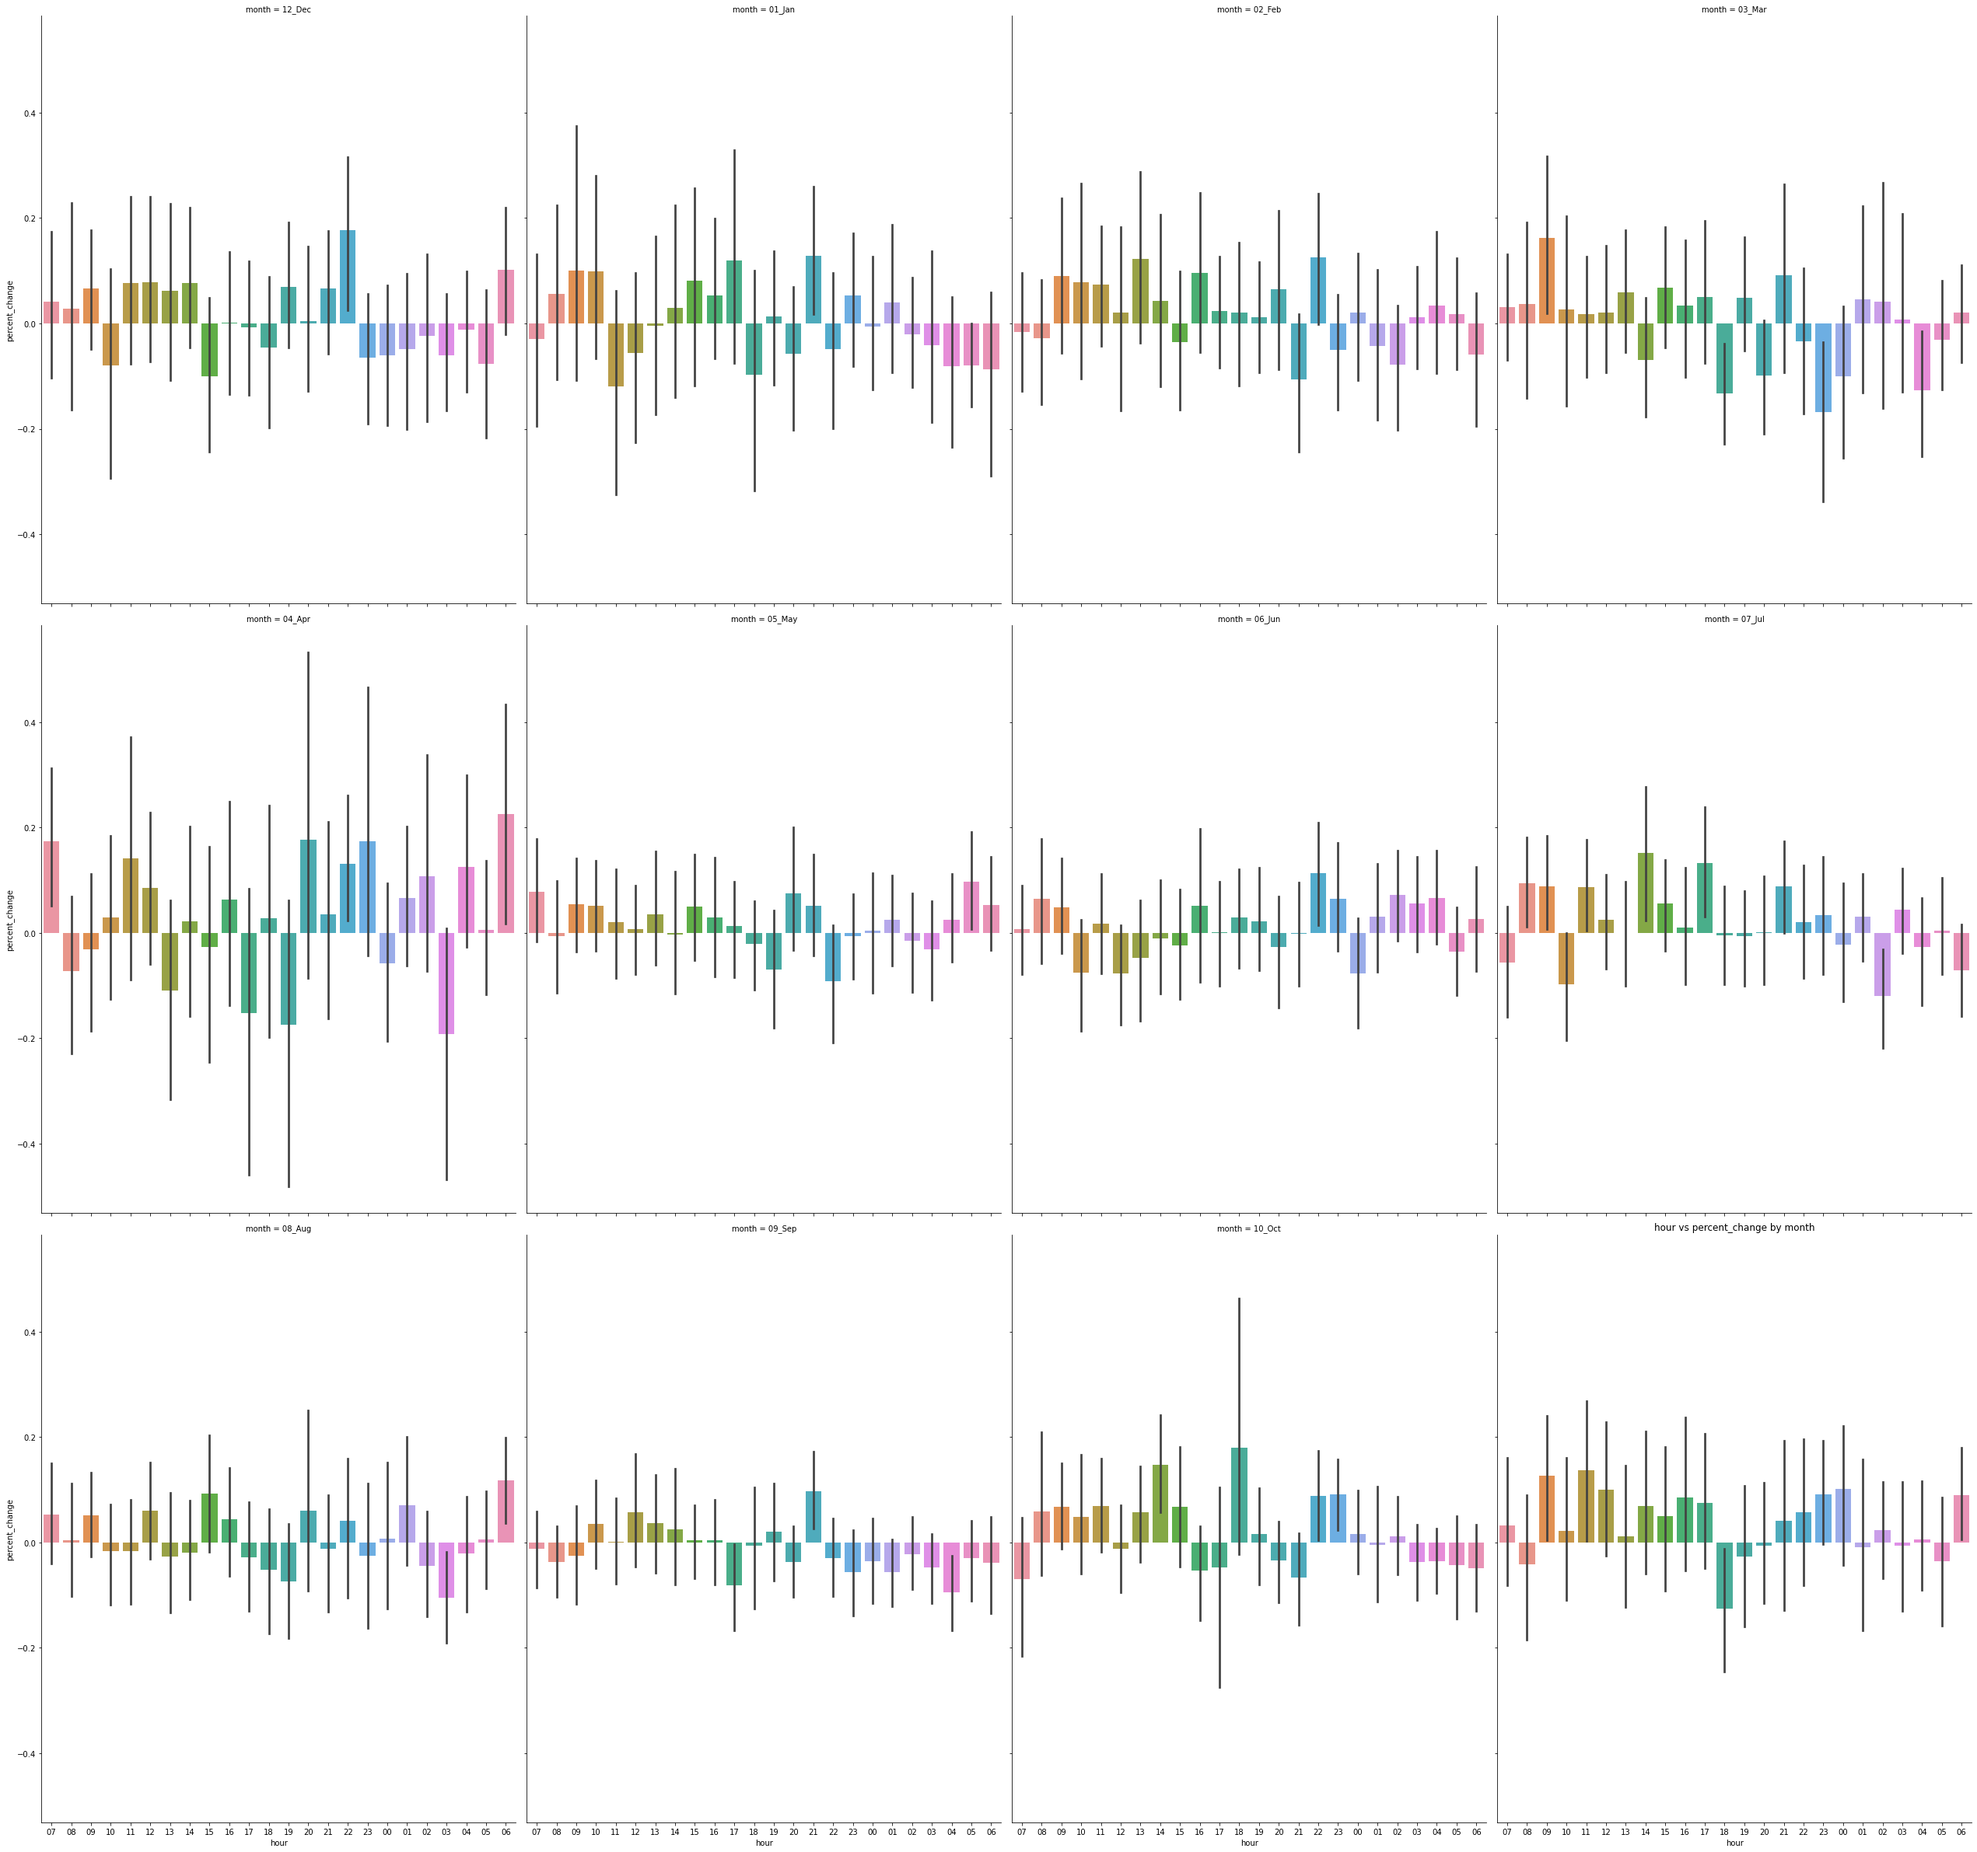
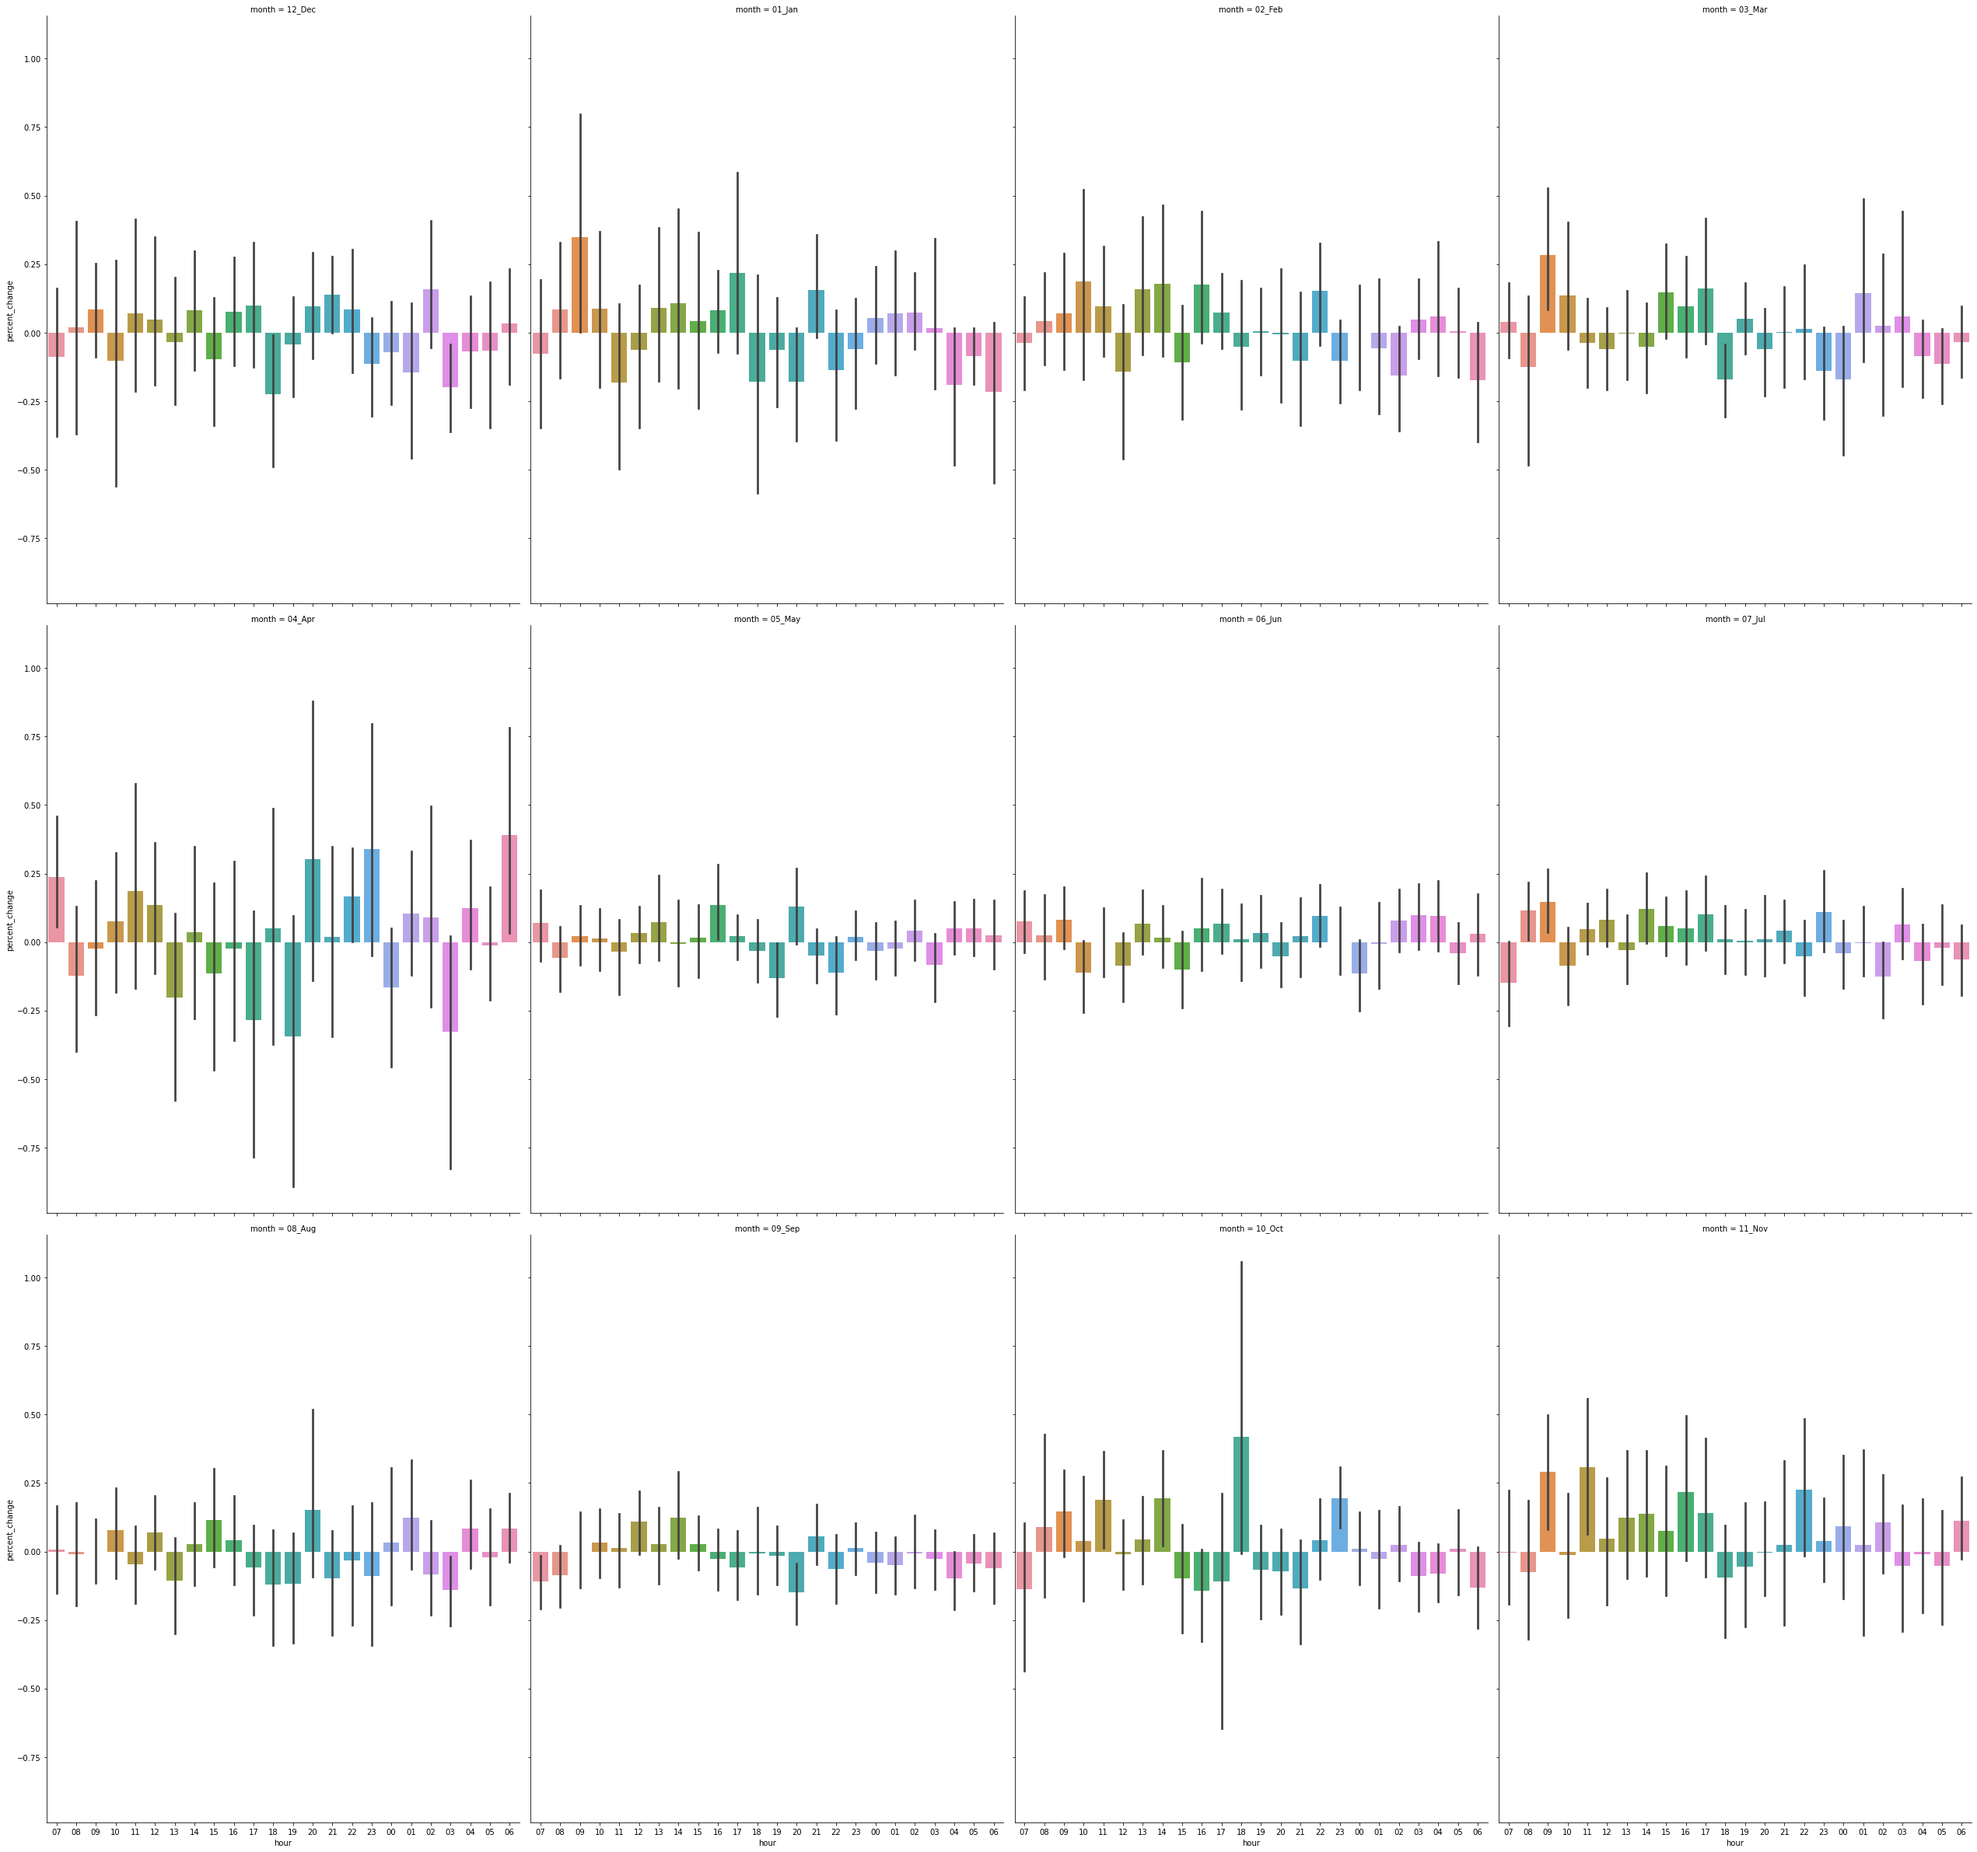
Changes to README.md

diff --git a/explore.py b/explore.py
@@ -2,10 +2,10 @@ import pandas
 import matplotlib.pyplot as plt
 import seaborn as sns
 
-
 def draw_lineplots(df, cols, target):
     for col in cols:
         plt.figure(figsize=(16,4))
         tmp =  df.groupby(col)[target].mean()
         sns.lineplot(data=tmp).set(title=f'{col} vs {target}')
     plt.show()
+

diff --git a/README.md b/README.md
@@ -65,8 +65,6 @@
 ### Findings
 > - 
 
-
-
 <div style="text-align: right"><a href='#toc'>Table of Contents</a></div>
 <hr style="border-top: 10px groove tan; margin-top: 1px; margin-bottom: 1px"></hr>
 
@@ -145,34 +143,29 @@
 ## Explore Data
 ✓ _Plan_ ➜ ✓ _Acquire_ ➜ ✓ _Prepare_ ➜ 🟢 **Explore** ➜ ☐ _Model_ ➜ ☐ _Deliver_
 
+### Bitcoin Price over Time
+
+![Bitcoin_price](images/bitcoin_price_over_time.png)
+
+### Hour vs Percent Change on a monthly basis
+
+![hour_vs_percent_change_monthly](images/hour_vs_percent_change_by_month.png)
+
 <a name='correlations'></a>
 ### Correlations
 
-![heatmap](images/logerror_corr.png)
+![heatmap](images/avg_price_correlations.png)
 
 #### Correlations of Logerror
-|  Column Name |     logerror |
-|:-----------------------------|-------------:|
-| bathroomcnt                  |  0.00474117  |
-| id                           |  0.00447373  |
-| regionidcounty               |  0.00292009  |
-| rawcensustractandblock       |  0.00269419  |
-| fips                         |  0.00269152  |
-| roomcnt                      |  0.00199583  |
-| latitude                     |  0.00182852  |
-| bedroomcnt                   |  0.00125381  |
-| calculatedfinishedsquarefeet | -0.000362524 |
-| regionidzip                  | -0.000494803 |
-| propertylandusetypeid        | -0.00150166  |
-| lotsizesquarefeet            | -0.00249514  |
-| assessmentyear               | -0.00295415  |
-| longitude                    | -0.00302902  |
-| landtaxvaluedollarcnt        | -0.00305275  |
-| regionidcity                 | -0.00402482  |
-| taxamount                    | -0.0042753   |
-| taxvaluedollarcnt            | -0.00445937  |
-| structuretaxvaluedollarcnt   | -0.00542311  |
-| yearbuilt                    | -0.00712105  |
+| Column Name       |    avg_price |
+|:------------------|-------------:|
+| price_diff        |   0.0061726  |
+| percent_change    |   0.00543991 |
+| Volume_(Currency) |  -0.0475418  |
+| Volume_(BTC)      |  -0.067203   |
+| price_delta       |  -0.142155   |
+| day_num           |  -0.346819   |
+| month_num         | nan          |
 
 <a name='pairplot'></a>
 ### Pair Plot
@@ -181,90 +174,16 @@
 
 <a name='explore_takeaways'></a>
 ### Explore Takeaways
-> - It is apparent that the most correlated features with the `logerror` are `yearbuilt`, `structuretaxvaluedollarcnt`, `bathroomcnt`. 
-> - The best features from the feature engineering aspect were `bathroomcnt`, `yearbuilt` & `assessmentyear`.
+> - It is apparent that the most correlated features with `avg_price` are `day_num`, `price_delta`, `Volume_(BTC)`. 
+> - It also appears that the avg_price tends to trend upward during Oct, and downwards in Sept.
 
 <div style="text-align: right"><a href='#toc'>Table of Contents</a></div>
 <hr style="border-top: 10px groove tan; margin-top: 1px; margin-bottom: 1px"></hr>
 
-<a name='hypothesis'></a>
-### Hypothesis 1 Correlation Test `logerror` vs `id`
-> - ${H}_{0}$: There is no correlation between `logerror` and `id`
-> - ${H}_{a}$: There is a correlation between `logerror` and `id`
-
-__r-value__: 0.00177
-
-__p-value__: 0.76129
-
-We fail to reject null hypothesis. There is no relationship between `logerror` and `id`
-
-### Hypothesis 2 Correlation Test `logerror` vs `bathroomcnt`
-> - ${H}_{0}$: There is no correlation between `logerror` and `bathroomcnt`
-> - ${H}_{a}$: There is a correlation between `logerror` and `bathroomcnt`
-
-__r-value__: 0.00354
-
-__p-value__: 0.54214
-
-We fail to reject null hypothesis. There is no relationship between `logerror` and `bathroomcnt`
-
-### Hypothesis 3 Correlation Test `logerror` vs `bedroomcnt`
-> - ${H}_{0}$: There is no correlation between `logerror` and `bedroomcnt`
-> - ${H}_{a}$: There is a correlation between `logerror` and `bedroomcnt`
-
-__r-value__: 0.00261
-
-__p-value__: 0.65306
-
-We fail to reject null hypothesis. There is no relationship between `logerror` and `bedroomcnt`
-
-### Hypothesis 4 Correlation Test `logerror` vs `calculatedfinishedsquarefeet`
-> - ${H}_{0}$: There is no correlation between `logerror` and `calculatedfinishedsquarefeet`
-> - ${H}_{a}$: There is a correlation between `logerror` and `calculatedfinishedsquarefeet`
-
-__r-value__: 0.00126
-
-__p-value__: 0.82831
-
-We fail to reject null hypothesis. There is no relationship between `logerror` and `calculatedfinishedsquarefeet`
-
-
 <a name='modeling'></a>
-## Modeling & Evaluation
-✓ _Plan_ ➜ ✓ _Acquire_ ➜ ✓ _Prepare_ ➜ ✓ _Explore_ ➜ 🟢 **Model** ➜ ☐ _Deliver_
+## Modeling 
+✓ _Plan_ ➜ ✓ _Acquire_ ➜ ✓ _Prepare_ ➜  ✓ _Explore_ ➜  🟢_Model_ ➜ ☐ _Deliver_
 
-<a name='cluster_1'></a>
-### Cluster 1
-
-![cluster_1_k](images/cluster_1_k.png)
-
-
-![cluster_1](images/cluster_1.png)
-
-
-![cluster_1_centroid](images/cluster_1_cent.png)
-
-<a name='cluster_2'></a>
-### Cluster 2
-
-![cluster_1_k](images/cluster_2_k.png)
-
-
-![cluster_1](images/cluster_2.png)
-
-
-![cluster_1_centroid](images/cluster_2_cent.png)
-
-<a name='cluster_3'></a>
-### Cluster 3
-
-![cluster_1_k](images/cluster_3_k.png)
-
-
-![cluster_1](images/cluster_3.png)
-
-
-![cluster_1_centroid](images/cluster_3_cent.png)
 
 <a name='delivery'></a>
 ## Project Delivery
